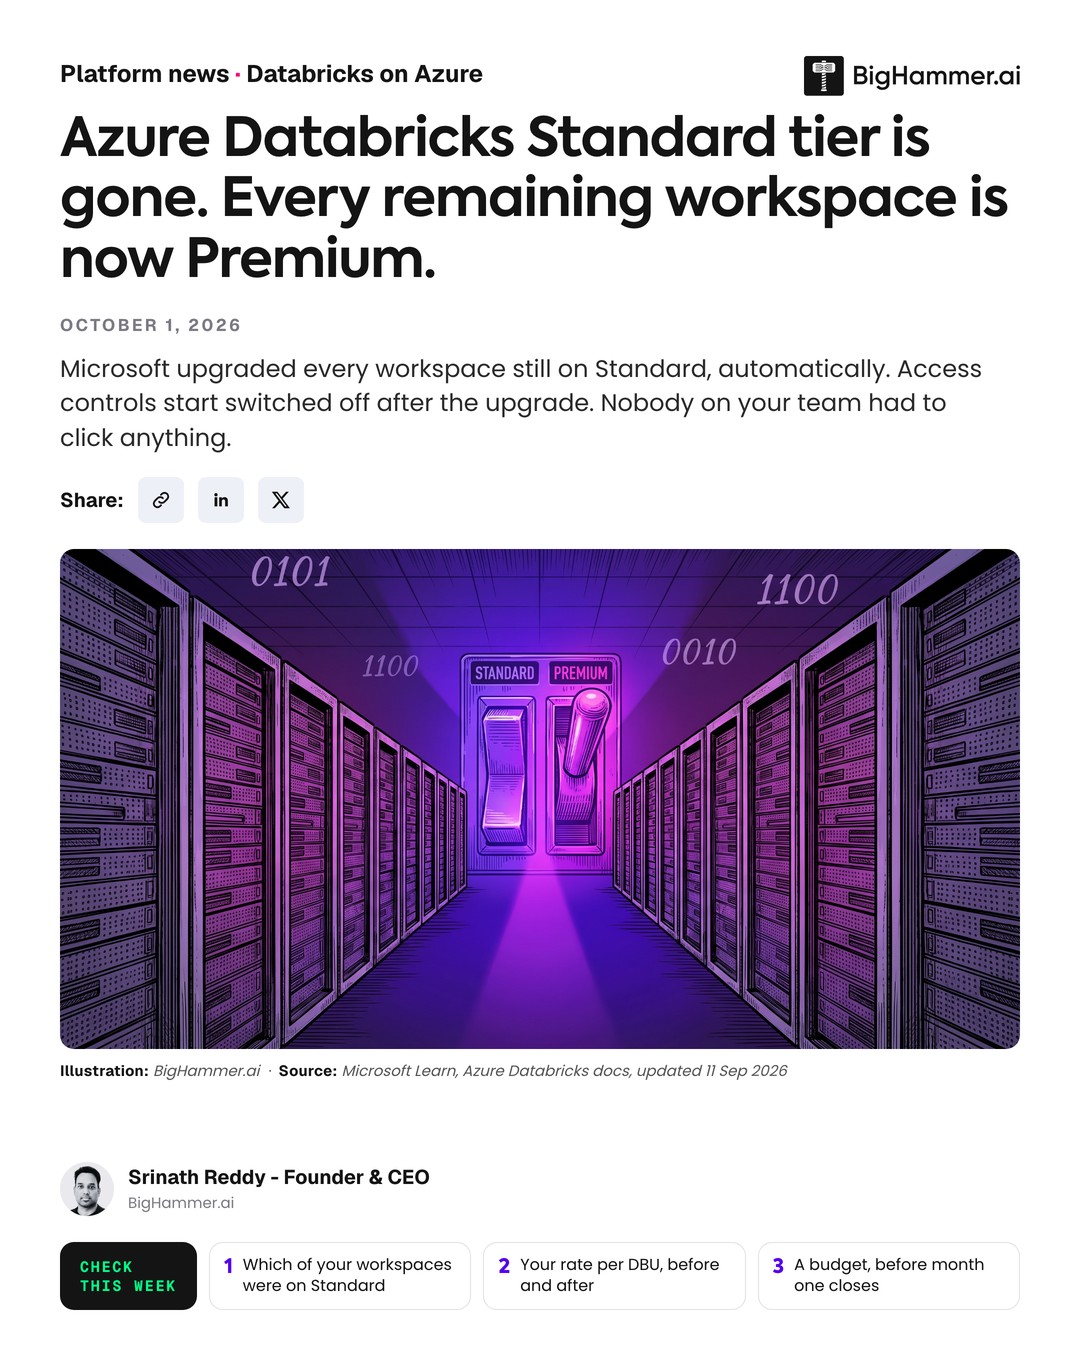
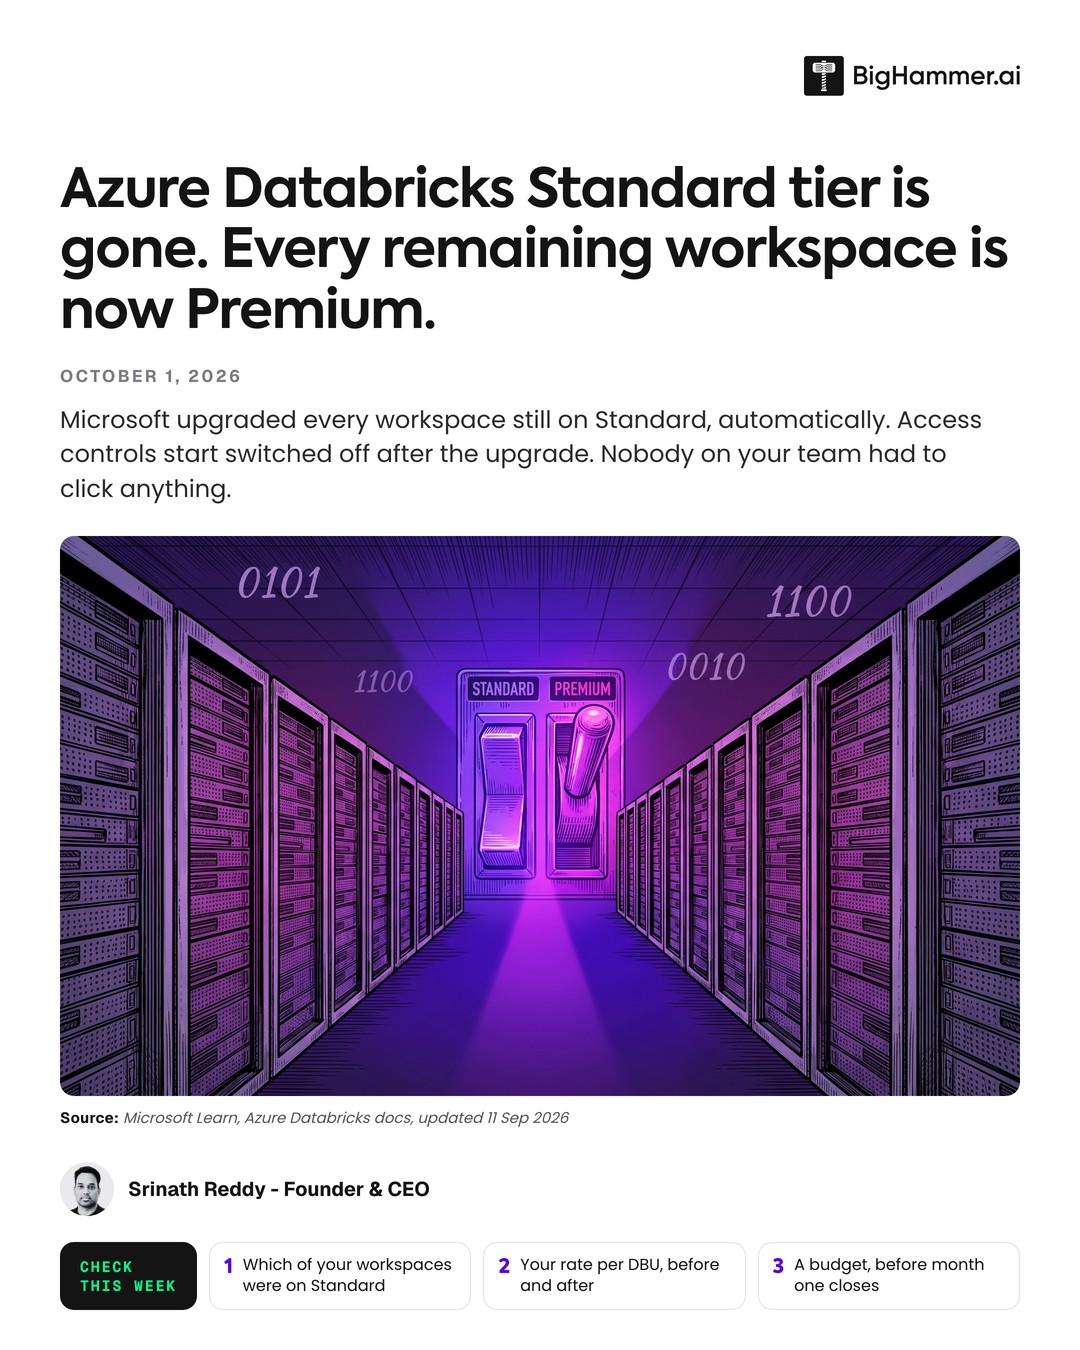
Remove filler header/footer labels from all assets

diff --git a/index.html b/index.html
@@ -5,9 +5,9 @@
 <meta name="viewport" content="width=device-width, initial-scale=1">
 <title>BigHammer.ai · LinkedIn batch 3 · review</title>
 <meta name="robots" content="noindex, nofollow">
-<link rel="stylesheet" href="core.css?v=202610010043">
-<link rel="stylesheet" href="linkedin.css?v=202610010043">
-<link rel="stylesheet" href="studio.css?v=202610010043">
+<link rel="stylesheet" href="core.css?v=202610010047">
+<link rel="stylesheet" href="linkedin.css?v=202610010047">
+<link rel="stylesheet" href="studio.css?v=202610010047">
 </head>
 <body>
 <header class="topbar">
@@ -41,9 +41,9 @@
   <main id="main"></main>
 </div>
 <div class="toast" id="toast">Saved</div>
-<script src="core.js?v=202610010043"></script>
-<script src="linkedin.js?v=202610010043"></script>
-<script src="data.js?v=202610010043"></script>
-<script src="app.js?v=202610010043"></script>
+<script src="core.js?v=202610010047"></script>
+<script src="linkedin.js?v=202610010047"></script>
+<script src="data.js?v=202610010047"></script>
+<script src="app.js?v=202610010047"></script>
 </body>
 </html>
